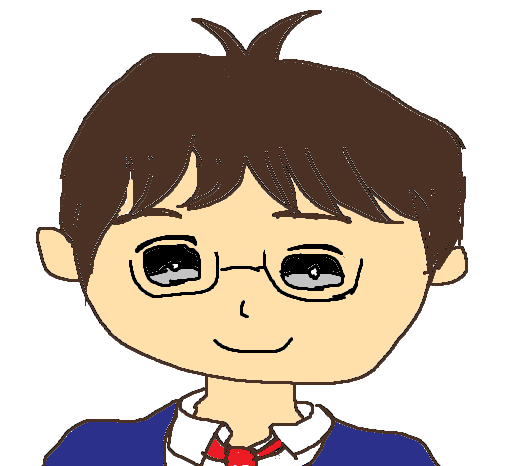
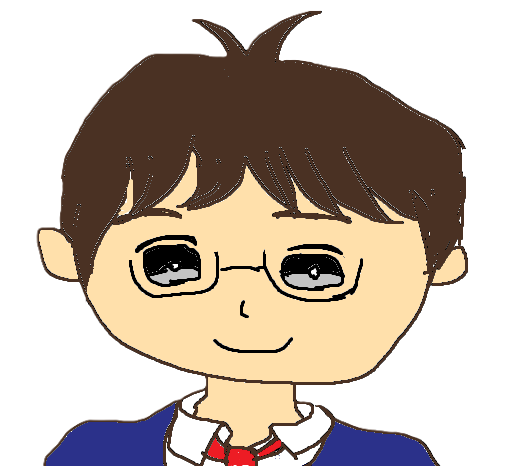
modified:   character/create.html modified:   img/character/c-061.png modified:   img/character/c-062.png modified:   public/sessions/create.html modified:   scenarios/create.html modified:   sessions/create.html

diff --git a/character/create.html b/character/create.html
@@ -3,7 +3,7 @@
 <head>
     <meta charset="UTF-8" />
     <meta name="viewport" content="width=device-width, initial-scale=1" />
-    <title>新規作成 | FCTZS TRPG部</title>
+    <title>キャラクター新規作成 | FCTZS TRPG部</title>
     <link rel="icon" href="https://github.com/ronitoak/FCTZS-TRPG/blob/main/img/favicon.ico?raw=true" type="image/png">
     <link rel="stylesheet" href="../css/style.css">
 </head>

diff --git a/public/sessions/create.html b/public/sessions/create.html
@@ -3,7 +3,7 @@
 <head>
     <meta charset="UTF-8" />
     <meta name="viewport" content="width=device-width, initial-scale=1" />
-    <title>新規作成 | FCTZS TRPG部</title>
+    <title>卓の新規作成 | FCTZS TRPG部</title>
     <link rel="icon" href="https://github.com/ronitoak/FCTZS-TRPG/blob/main/img/favicon.ico?raw=true" type="image/png">
     <link rel="stylesheet" href="../css/style.css">
 </head>

diff --git a/scenarios/create.html b/scenarios/create.html
@@ -3,7 +3,7 @@
 <head>
     <meta charset="UTF-8" />
     <meta name="viewport" content="width=device-width, initial-scale=1" />
-    <title>新規作成 | FCTZS TRPG部</title>
+    <title>シナリオ新規登録 | FCTZS TRPG部</title>
     <link rel="icon" href="https://github.com/ronitoak/FCTZS-TRPG/blob/main/img/favicon.ico?raw=true" type="image/png">
     <link rel="stylesheet" href="../css/style.css">
 </head>

diff --git a/sessions/create.html b/sessions/create.html
@@ -3,7 +3,7 @@
 <head>
     <meta charset="UTF-8" />
     <meta name="viewport" content="width=device-width, initial-scale=1" />
-    <title>新規作成 | FCTZS TRPG部</title>
+    <title>卓の新規作成 | FCTZS TRPG部</title>
     <link rel="icon" href="https://github.com/ronitoak/FCTZS-TRPG/blob/main/img/favicon.ico?raw=true" type="image/png">
     <link rel="stylesheet" href="../css/style.css">
 </head>